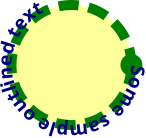
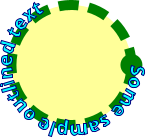
corrected JDRTextPath.print

Changed region(s): [[0.0, 0.0, 0.3014, 0.8696], [0.2466, 0.8116, 0.7671, 1.0], [0.7397, 0.4638, 1.0, 0.8406]]

diff --git a/src/java/jdr/JDRTextPath.java b/src/java/jdr/JDRTextPath.java
@@ -876,9 +876,11 @@ public class JDRTextPath extends JDRCompoundShape implements JDRTextual
       g2.setPaint(oldPaint);
    }
 
+   @Override
    public void print(Graphics2D g2)
    {
       Paint oldPaint = g2.getPaint();
+      CanvasGraphics cg = getCanvasGraphics();
 
       BBox box = null;
 
@@ -932,11 +934,27 @@ public class JDRTextPath extends JDRCompoundShape implements JDRTextual
 
       if (paint instanceof JDRShading)
       {
-         box = new BBox(getCanvasGraphics(), shape.getBounds2D());
+         box = new BBox(cg, shape.getBounds2D());
       }
 
-      g2.setPaint(paint.getPaint(box));
-      g2.fill(shape);
+      if (isOutline)
+      {
+         JDRPaint fill = getOutlineFillPaint();
+
+         if (fill != null && !(fill instanceof JDRTransparent))
+         {
+            g2.setPaint(fill.getPaint(box));
+            g2.fill(shape);
+         }
+
+         g2.setPaint(paint.getPaint(box));
+         g2.draw(shape);
+      }
+      else
+      {
+         g2.setPaint(paint.getPaint(box));
+         g2.fill(shape);
+      }
 
       g2.setPaint(oldPaint);
    }

diff --git a/src/doc/en/flowframtk-main.tex b/src/doc/en/flowframtk-main.tex
@@ -7229,7 +7229,6 @@ the \gls{underlying-shape} but the actual shape isn't \rendered.
 In \figureref{fig:textpathshowc} the \pathattr{textpathshow}
 attribute is on so the original path is now showing behind the text.
 
-% TODO: check images
 \FloatSubFigs{fig:textpathshow}
 {
  {fig:textpathshowa}{\includeimg{textpathshowa}}{},
